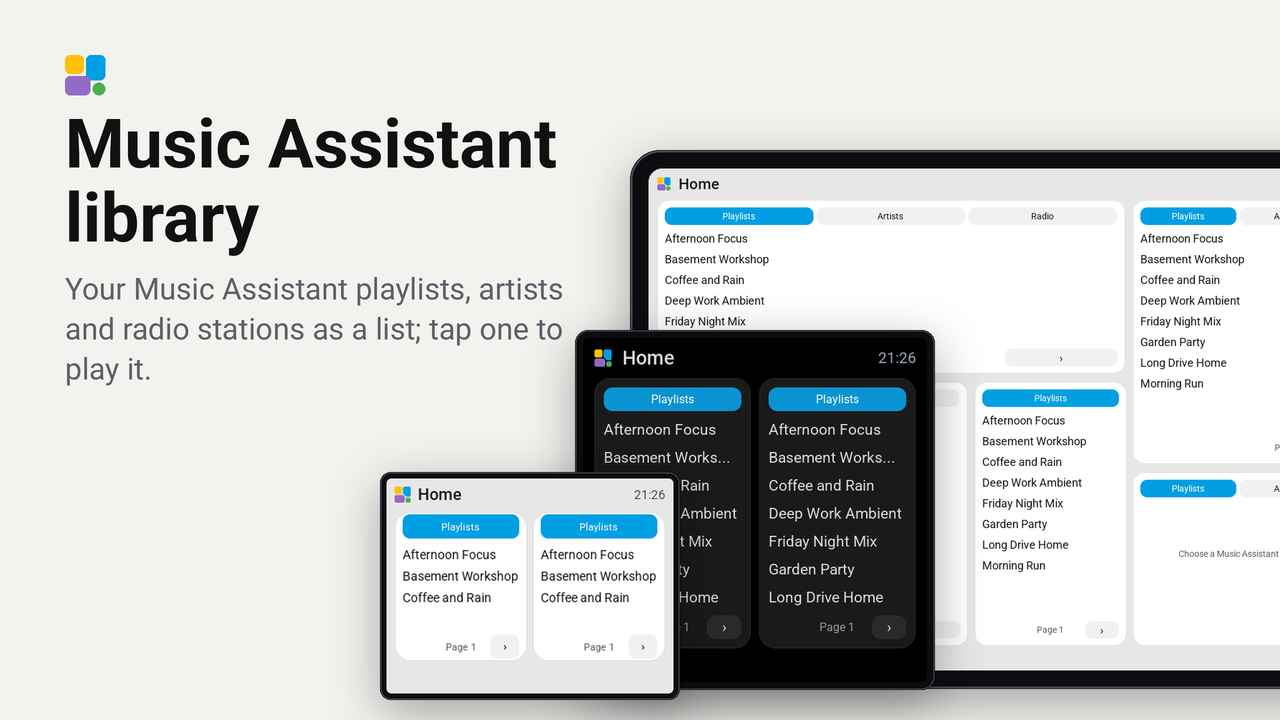
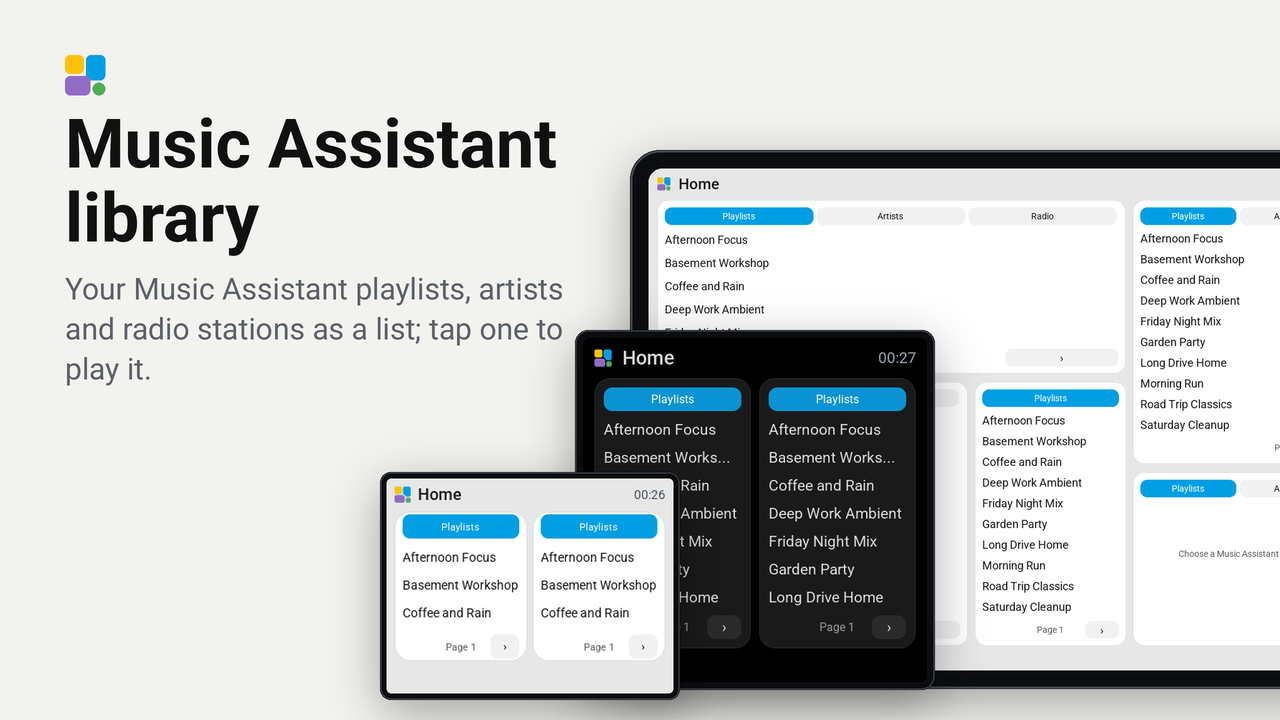
Fill the tile with rows and survive shortened answers (0.2.0)
Raise the page to twelve rows and share leftover room between them. Ask
again when an answer comes back short, so a list the app cut to fit its
3 KB limit still fills the page and keeps the next-page key.

Also correct the manifest's api to 0.12, raise the tile's memory, explain
the template way to find the config entry id, and rebuild store.png.

diff --git a/components/ma_library/ma_library.cpp b/components/ma_library/ma_library.cpp
@@ -13,8 +13,9 @@ namespace ui = tessera::ui;
 
 static const char *const ASK = "call_service:music_assistant.get_library";
 static const char *const PLAY = "music_assistant.play_media";
-// The most rows a page holds: eight names and uris stay well inside the 3 KB an answer may be.
-static constexpr int MAX_ROWS = 8;
+// The most rows a page holds. An answer is at most about 3 KB and the app shortens a longer list from the end, so a page
+// is asked in as many answers as it takes (LibraryTile::answer).
+static constexpr int MAX_ROWS = 12;
 // An answer that has not come after this long is taken as failed; a tap asks again.
 static constexpr uint32_t ANSWER_MS = 15000;
 // How long a tapped row says it is starting.
@@ -80,6 +81,8 @@ class LibraryTile : public tessera::Tile {
     if (large_rows < 3 && rows_room / (ui::line_height(Font::BODY) + pad) > large_rows) row_font = Font::BODY;
     row_h_ = ui::line_height(row_font) + pad;
     rows_ = std::max(1, std::min(MAX_ROWS, rows_room / row_h_));
+    // The room left under the last row goes to the rows, so the list fills the tile whatever its size.
+    row_h_ = std::max(row_h_, std::min(rows_room / rows_, row_h_ * 3 / 2));
     for (int i = 0; i < rows_; ++i) {
       row_[i] = ui::label(c.parent, row_font, theme::INK);
       lv_obj_set_width(row_[i], width_);
@@ -127,7 +130,7 @@ class LibraryTile : public tessera::Tile {
     // No app yet when the tile came on the glass: ask again every few seconds until the request goes out.
     if (state_ == State::UNSENT && now - asked_at_ >= 5000) ask();
     if (state_ == State::ASKING && now - asked_at_ >= ANSWER_MS) {
-      state_ = State::FAILED;
+      give_up();
       paint();
     }
     if (starting_ >= 0 && now - started_at_ >= STARTING_MS) {
@@ -163,17 +166,19 @@ class LibraryTile : public tessera::Tile {
         offset_ = std::max(0, offset_ - rows_);
         ask();
       } else if (p.x >= width_ - key_w_ - gap_ && more_) {
-        offset_ += count_;
+        offset_ += fetched_;
         ask();
       }
       return paint();
     }
     // Nothing to play: a tap asks again after a failure.
-    if (state_ == State::FAILED || state_ == State::UNSENT) {
-      ask();
-      return paint();
+    if (count_ == 0) {
+      if (state_ == State::FAILED || state_ == State::UNSENT) {
+        ask();
+        paint();
+      }
+      return;
     }
-    if (state_ != State::SHOWN) return;
     const int row = (p.y - rows_top_) / row_h_;
     if (row < 0 || row >= count_ || player_.empty()) return;
     JsonDocument d;
@@ -190,27 +195,34 @@ class LibraryTile : public tessera::Tile {
   void answer(JsonObjectConst message) {
     if (state_ != State::ASKING || (message["re"] | 0u) != asked_) return;
     if (!(message["ok"] | false)) {
-      state_ = State::FAILED;
+      give_up();
       return paint();
     }
-    count_ = 0;
+    int got = 0;
     for (JsonObjectConst item : message["result"]["items"].as<JsonArrayConst>()) {
       if (count_ >= rows_) break;
+      ++got;
+      ++fetched_;
       const char *uri = item["uri"] | "";
       if (!uri[0]) continue;
       snprintf(items_[count_].name, sizeof(items_[count_].name), "%s", item["name"] | uri);
       snprintf(items_[count_].uri, sizeof(items_[count_].uri), "%s", uri);
       ++count_;
     }
-    // A full page may have one after it; a short one is the last.
-    more_ = count_ >= rows_;
-    // Paged past the end (the library shrank): back to the first page.
-    if (count_ == 0 && offset_ > 0) {
+    if (count_ >= rows_) {
+      // A full page may have one after it.
+      more_ = true;
+      state_ = State::SHOWN;
+    } else if (got > 0) {
+      // Short: the list's end, or an answer the app shortened to fit. Only the next answer can tell, so ask on.
+      request();
+    } else if (count_ == 0 && offset_ > 0) {
+      // Paged past the end (the library shrank): back to the first page.
       offset_ = 0;
       ask();
-      return paint();
+    } else {
+      state_ = State::SHOWN;
     }
-    state_ = State::SHOWN;
     paint();
   }
 
@@ -220,22 +232,39 @@ class LibraryTile : public tessera::Tile {
   // Ask for the page at offset_ of the list of the tab that is chosen.
   void ask() {
     count_ = 0;
+    fetched_ = 0;
     more_ = false;
     starting_ = -1;
-    asked_at_ = esphome::millis();
     if (!entry_[0]) {
+      asked_at_ = esphome::millis();
       state_ = State::FAILED;
       return;
     }
+    request();
+  }
+
+  // Ask for what the page still lacks.
+  void request() {
+    asked_at_ = esphome::millis();
     JsonDocument request;
     request["ask"] = ASK;
     request["data"]["config_entry_id"] = entry_;
     request["data"]["media_type"] = KINDS[kind_];
-    request["data"]["limit"] = rows_;
-    request["data"]["offset"] = offset_;
+    request["data"]["limit"] = rows_ - count_;
+    request["data"]["offset"] = offset_ + fetched_;
     request["data"]["order_by"] = "name";
     asked_ = tessera::send(plugin_, request.as<JsonObjectConst>());
     state_ = asked_ ? State::ASKING : State::UNSENT;
+  }
+
+  // No answer. Rows that came stay, and the key goes on from the first row that did not.
+  void give_up() {
+    if (count_ > 0) {
+      more_ = true;
+      state_ = State::SHOWN;
+    } else {
+      state_ = State::FAILED;
+    }
   }
 
   void paint() {
@@ -250,8 +279,7 @@ class LibraryTile : public tessera::Tile {
     if (player_.empty()) note = "no_player";
     else if (!entry_[0]) note = "no_entry";
     else if (state_ == State::FAILED) note = "failed";
-    else if (state_ != State::SHOWN) note = "waiting";
-    else if (count_ == 0) note = "none";
+    else if (count_ == 0) note = state_ == State::SHOWN ? "none" : "waiting";
     ui::set_text(note_, note[0] ? plugin_->text(note) : "");
     const bool rows = !note[0];
     for (int i = 0; i < rows_; ++i) {
@@ -288,7 +316,7 @@ class LibraryTile : public tessera::Tile {
   MaLibrary *plugin_;
   tessera::Text player_;
   char entry_[72] = {};
-  int tabs_ = KIND_COUNT, kind_ = 0, offset_ = 0, count_ = 0, rows_ = 1, starting_ = -1;
+  int tabs_ = KIND_COUNT, kind_ = 0, offset_ = 0, count_ = 0, fetched_ = 0, rows_ = 1, starting_ = -1;
   bool more_ = false, unavailable_ = false;
   State state_ = State::UNSENT;
   uint32_t asked_ = 0, asked_at_ = 0, started_at_ = 0;

diff --git a/README.md b/README.md
@@ -9,8 +9,9 @@ to Home Assistant: no helpers, no scripts, no automations.
 ## Set up
 
 1. Make sure the Music Assistant integration is set up in Home Assistant and has at least one player.
-2. Find the integration's config entry id: in Home Assistant open **Settings > Devices & services > Music Assistant**.
-   The address bar then ends in `config_entry=` followed by the id, such as `01JABCDEFGHJKMNPQRSTVWXYZ0`. Copy it.
+2. Find the integration's config entry id: in Home Assistant open **Developer Tools > Template** and enter
+   `{{ config_entry_id('media_player.your_player') }}` with one of your Music Assistant players. The result looks like
+   `01JABCDEFGHJKMNPQRSTVWXYZ0`. Copy it.
 3. Add the plugin to a screen in Tessera. The screen builds once.
 4. In Layout, place the **Music library** tile from the library's Plugins group. It is at least 1 column wide and 2 rows high.
 5. In the inspector, choose the Music Assistant player that plays, paste the config entry id, and choose the list it
@@ -18,7 +19,7 @@ to Home Assistant: no helpers, no scripts, no automations.
 
 ## Good to know
 
-- The tile shows as many rows as fit its size, up to eight a page, sorted by name. On a tile one column wide the
+- The tile shows as many rows as fit its size, up to twelve a page, sorted by name. On a tile one column wide the
   three tabs become one: tap it to go from playlists to artists to radio.
 - Each page is asked again when you switch tabs or page, so what you see is what the library has now.
 - Only the names and uris of a page reach the screen. Music Assistant finds and plays the item itself.

diff --git a/CHANGELOG.md b/CHANGELOG.md
@@ -1,5 +1,9 @@
 # Changelog
 
+## 0.2.0
+- The list fills the tile: up to twelve rows on a large tile, with the room left over shared between the rows.
+- A page is full even when Music Assistant's answer is too long for one message, and the next-page key stays.
+
 ## 0.1.0
 - First version: a tile with your Music Assistant playlists, artists and radio stations; tap one to play it.
 - Needs the Music Assistant config entry id in the tile's options.
